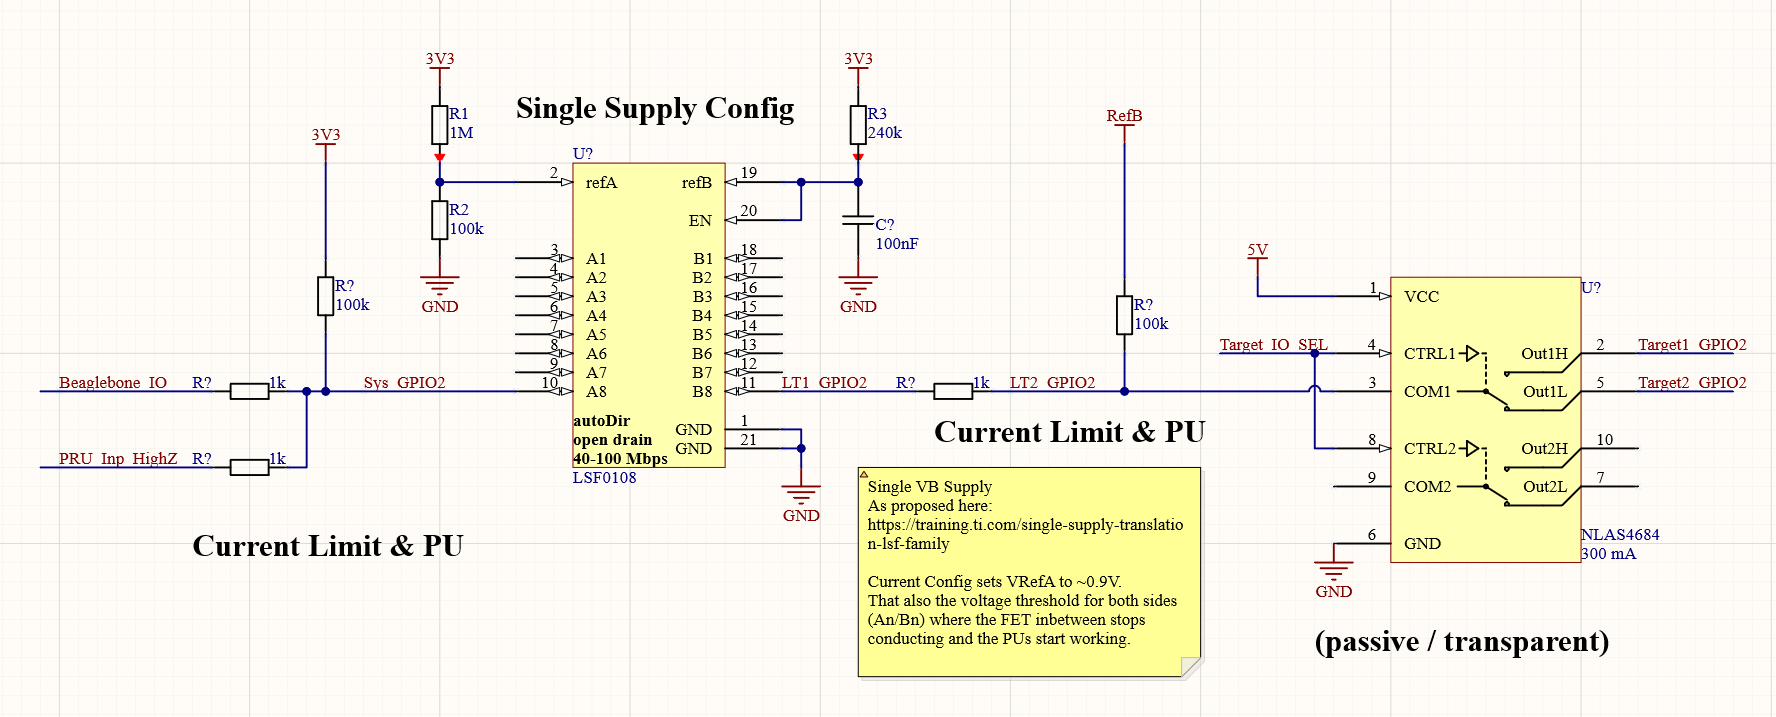
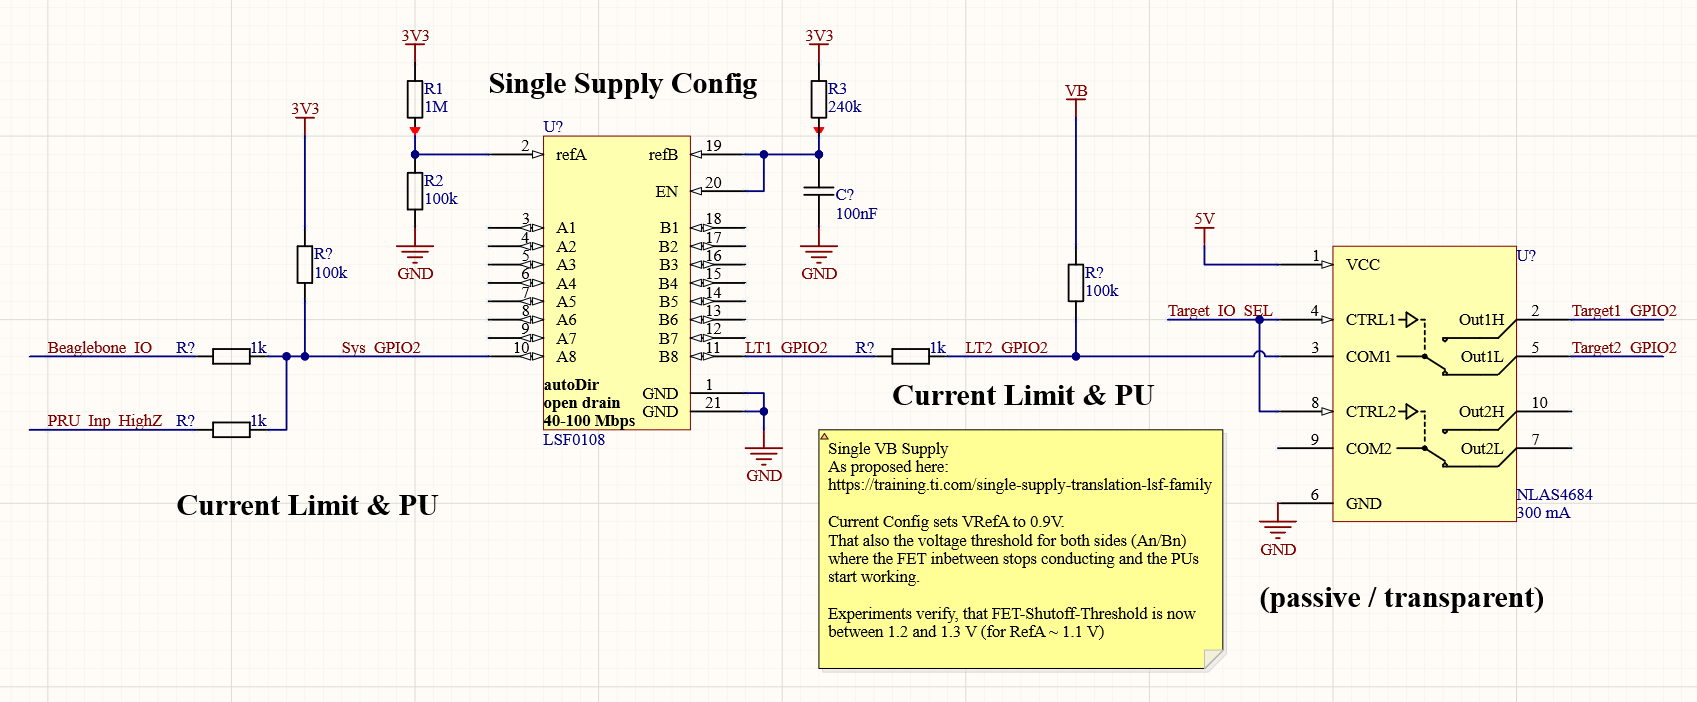
verify theory

Changed region(s): [[0.0312, 0.0299, 0.9994, 0.9573], [0.6246, 0.1197, 0.6559, 0.1795]]

diff --git a/37_gpio_level_translator.rst b/37_gpio_level_translator.rst
@@ -69,11 +69,33 @@ Single Supply Calculation (Maxima)::
     R2 = R3 * R1 * VRefA / ((R3 + R1)*(VB - VRefA) - VFet * R1);
     solve(R2, VRefA);
 
-    VRefA: ((R2*R3 + R1*R2) * VB - R1 * R2 * VFet) / (R1*R2 + R1*R3 * R2*R3);
+    VRefA: ((R2*R3 + R1*R2) * VB - R1 * R2 * VFet) / (R1*R2 + R1*R3 + R2*R3);
     VRefA = 0.89 V for TI, 0.85 V for Nexperia
 
 
 .. image:: media/leveltranslator_schematic_fixed.png
+
+Single Supply Verification
+- schematic above was recreated
+- Ref A settles at 1.079 V, Ref B at 1.673 V -> fet-diode seems to drop ~ 600 mV
+- as soon as one side is above ~ 1.2 V (only tested 0.1 V steps), the other voltage is controlled by PU on that side
+- Source-Meter on B-Side shows about 1 MOhm for High Signal (with PU of same voltage) down to ~ 1.2 V (< 0.4 uA)
+- below 1.2 V the source meter controlles the voltage on both channels (Pulldown)
+    - from -8.3 uA at 1.1 V the sink-current grows to -45 uA at 0.0V (almost linear)
+    - Side-A PU is 100k to 3.3 V  and Side-B PU is 100k to 1.3 V, results in
+        - 33 + 13 uA to GND -> matches closely with source-meter reading
+        - 22 + 2 uA to 1.1 V -> seems to flow into largely in B-Side-PU, because SM-Reading is lower
+- without PU on B-Side the source meter supplied the following currents into B-Side
+    - 1.5 uA @ 1.2 V (800 kOhm)
+    - 5.3 uA @ 1.5 V (283 kOhm)
+    - 9.2 uA @ 2.0 V (217 kOhm)
+    - 13 uA @ 2.5 V (192 kOhm)
+    - 17 uA @ 3.0 V (176 kOhm)
+    - 21 uA @ 3.5 V (167 kOhm)
+    - 25 uA @ 4.0 V (160 kOhm)
+    - 29 uA @ 4.5 V (155 kOhm)
+    - 32 uA @ 5.0 V (156 kOhm)
+
 
 Inner Workings
 --------------
